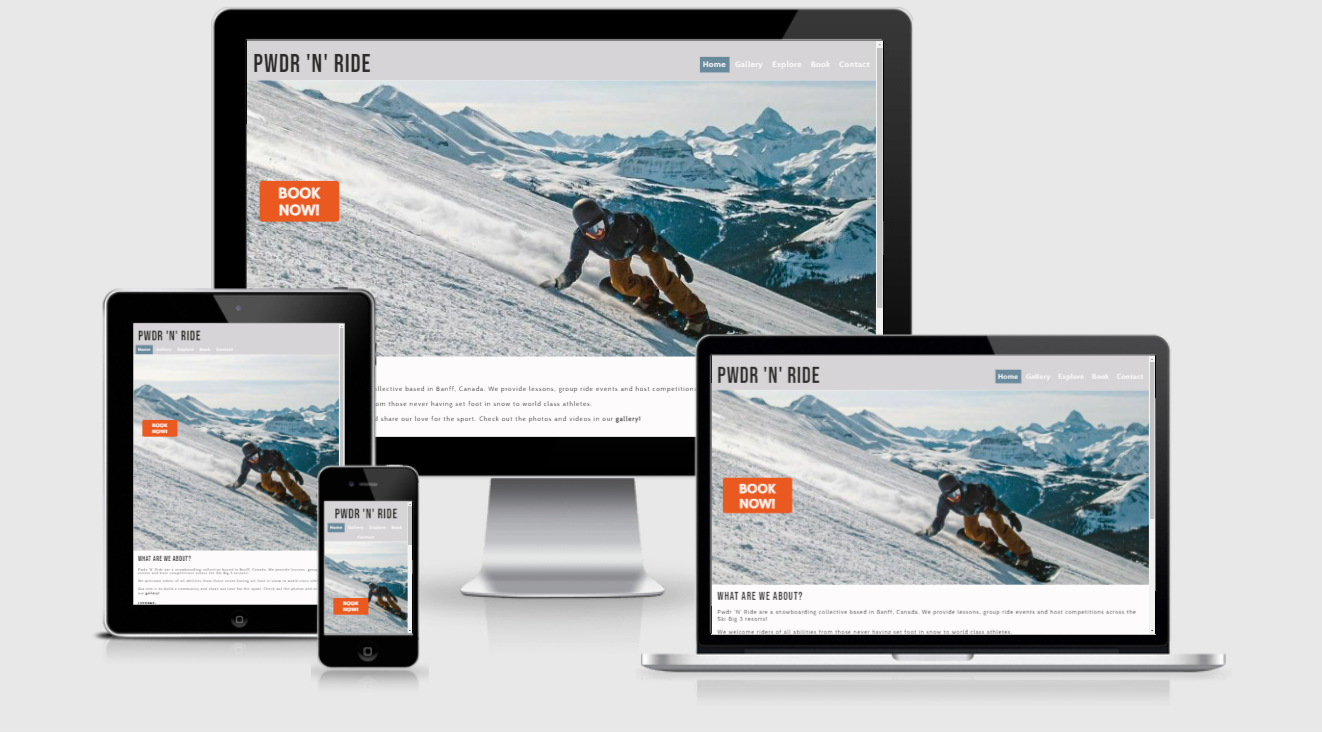
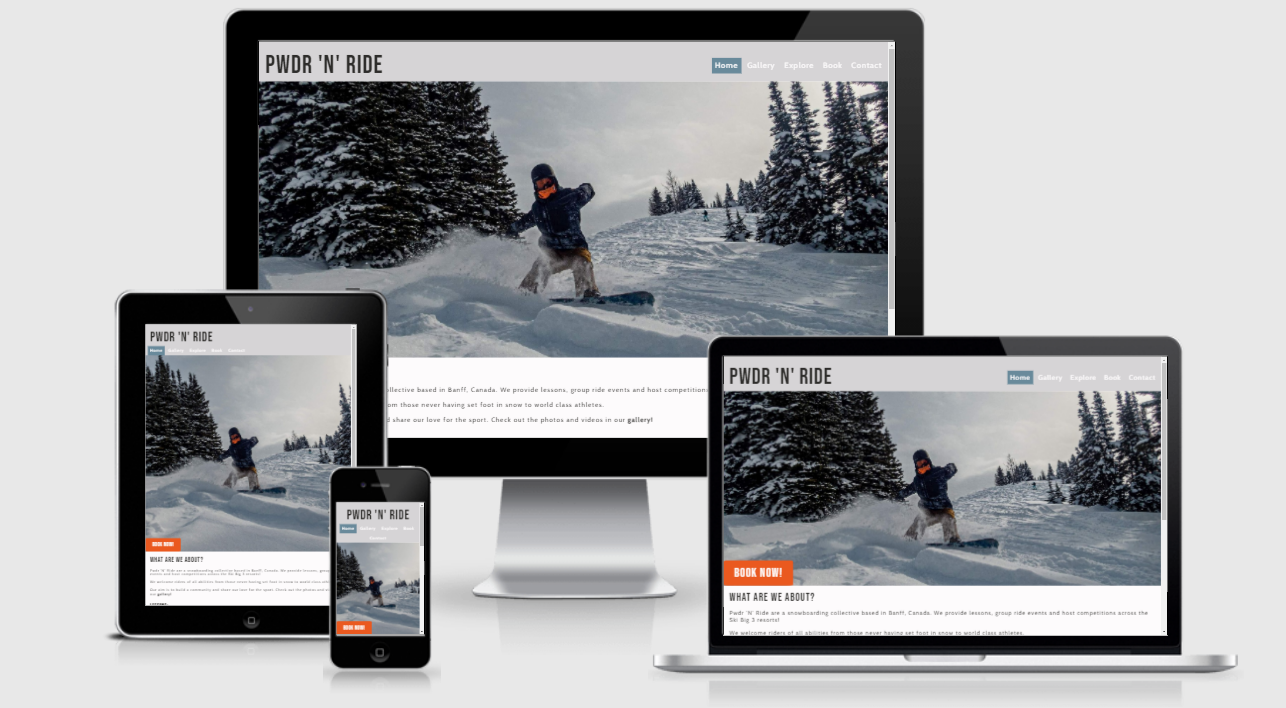
Update responsive test image

diff --git a/README.md b/README.md
@@ -305,8 +305,10 @@ Testing will look for the following:
 
 This was fixed by placing the 'input' tags inside the 'label' tags, placing the text within it's own span and using CSS to 'vertical-align: middle; ' the input and span.
 
+- The hero image was blurry and pixelated when viewed on larger screens (roughly >770px width). This is due to the image being a screenshot rather than the original file. This was resolved by changing the image for one of a higher resolution
+
 ### Issues not resolved
-- The hero image becomes blurry and pixelated when viewed on larger screens (roughly >770px width). This is due to the image being a screenshot rather than the original file. It can be fixed in the future by changing the image or finding the original file path.
+
 
 ### Testing User Stories
 
